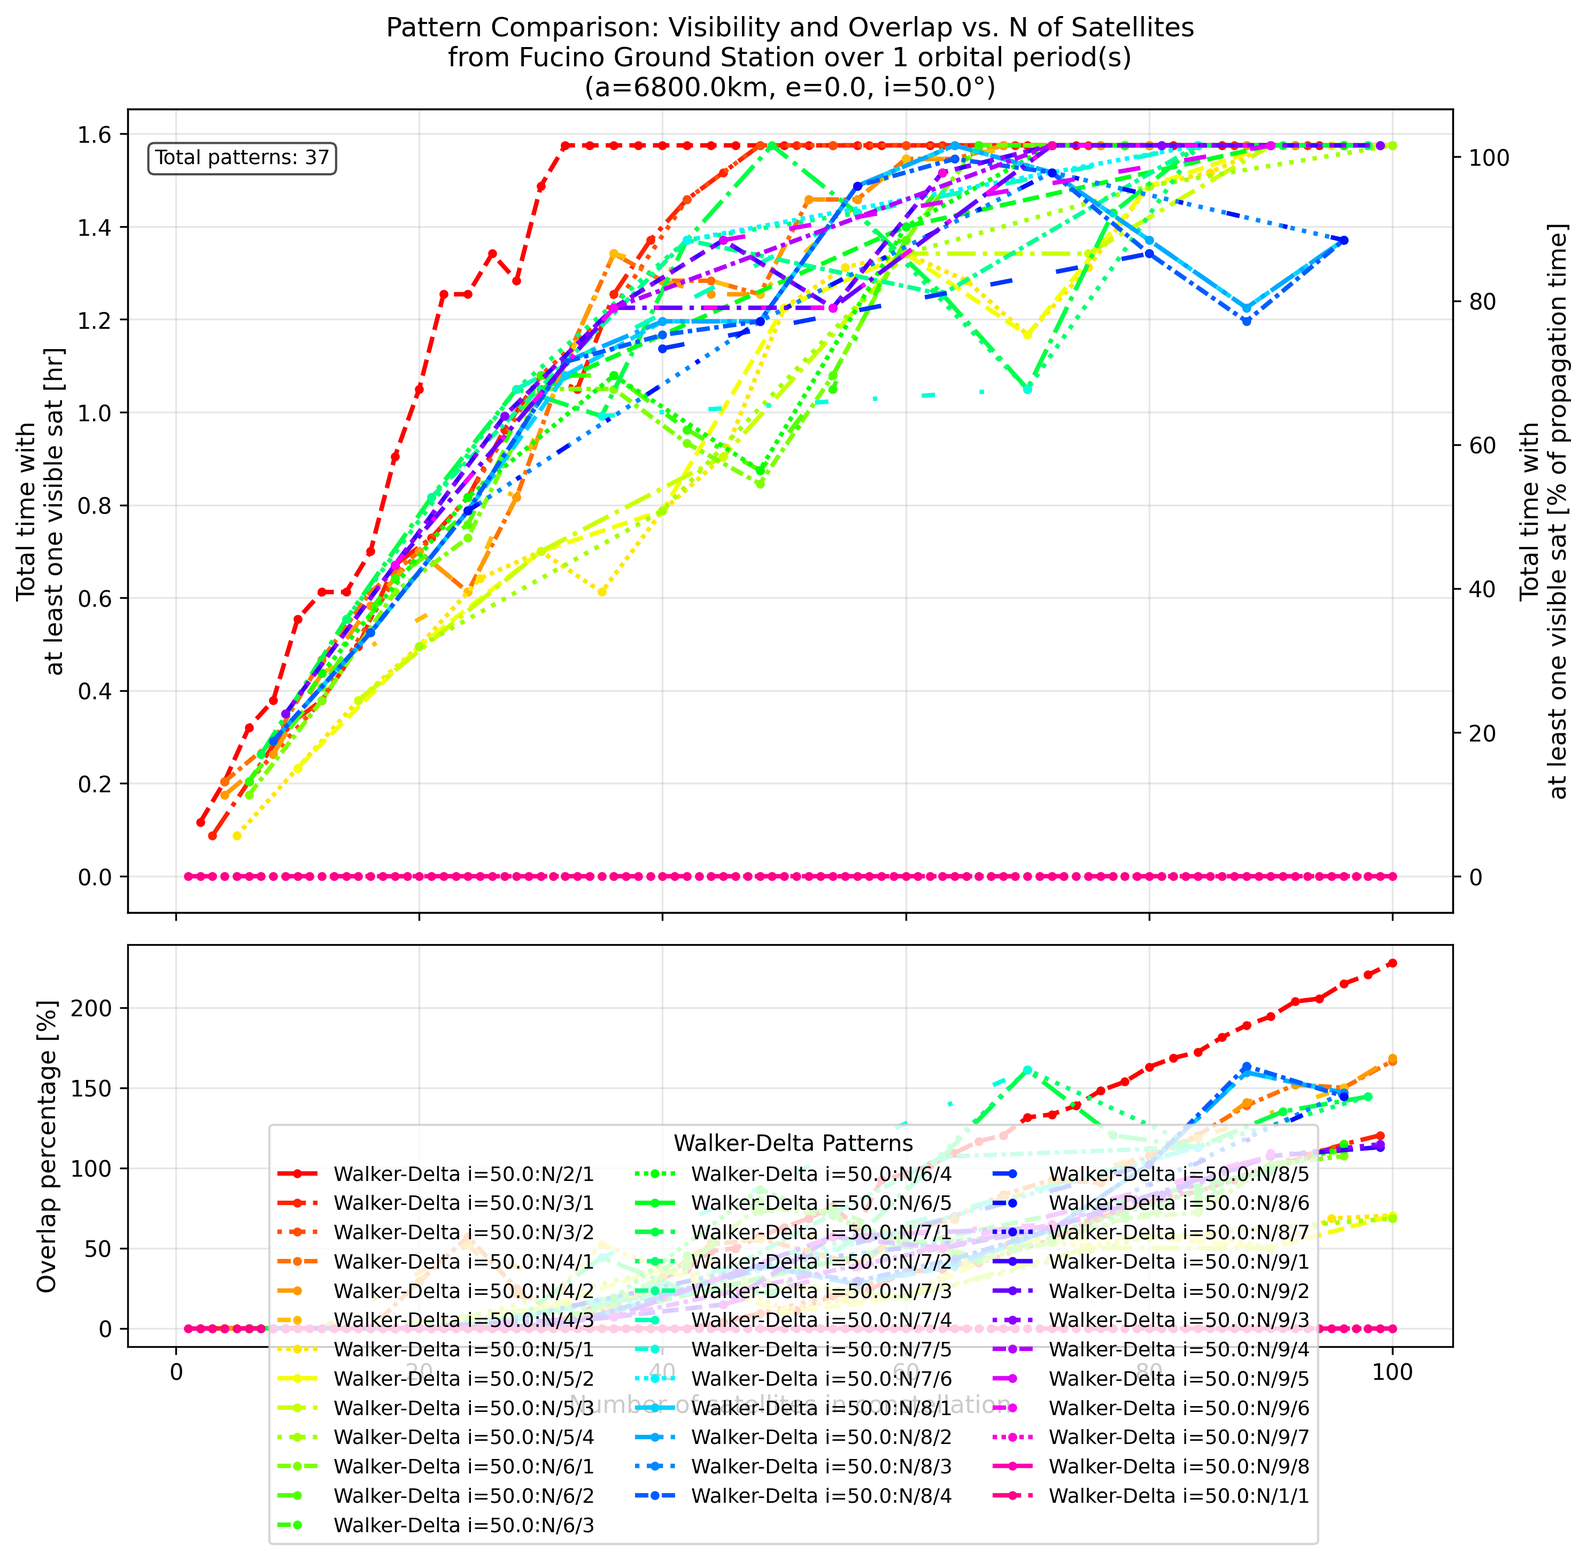
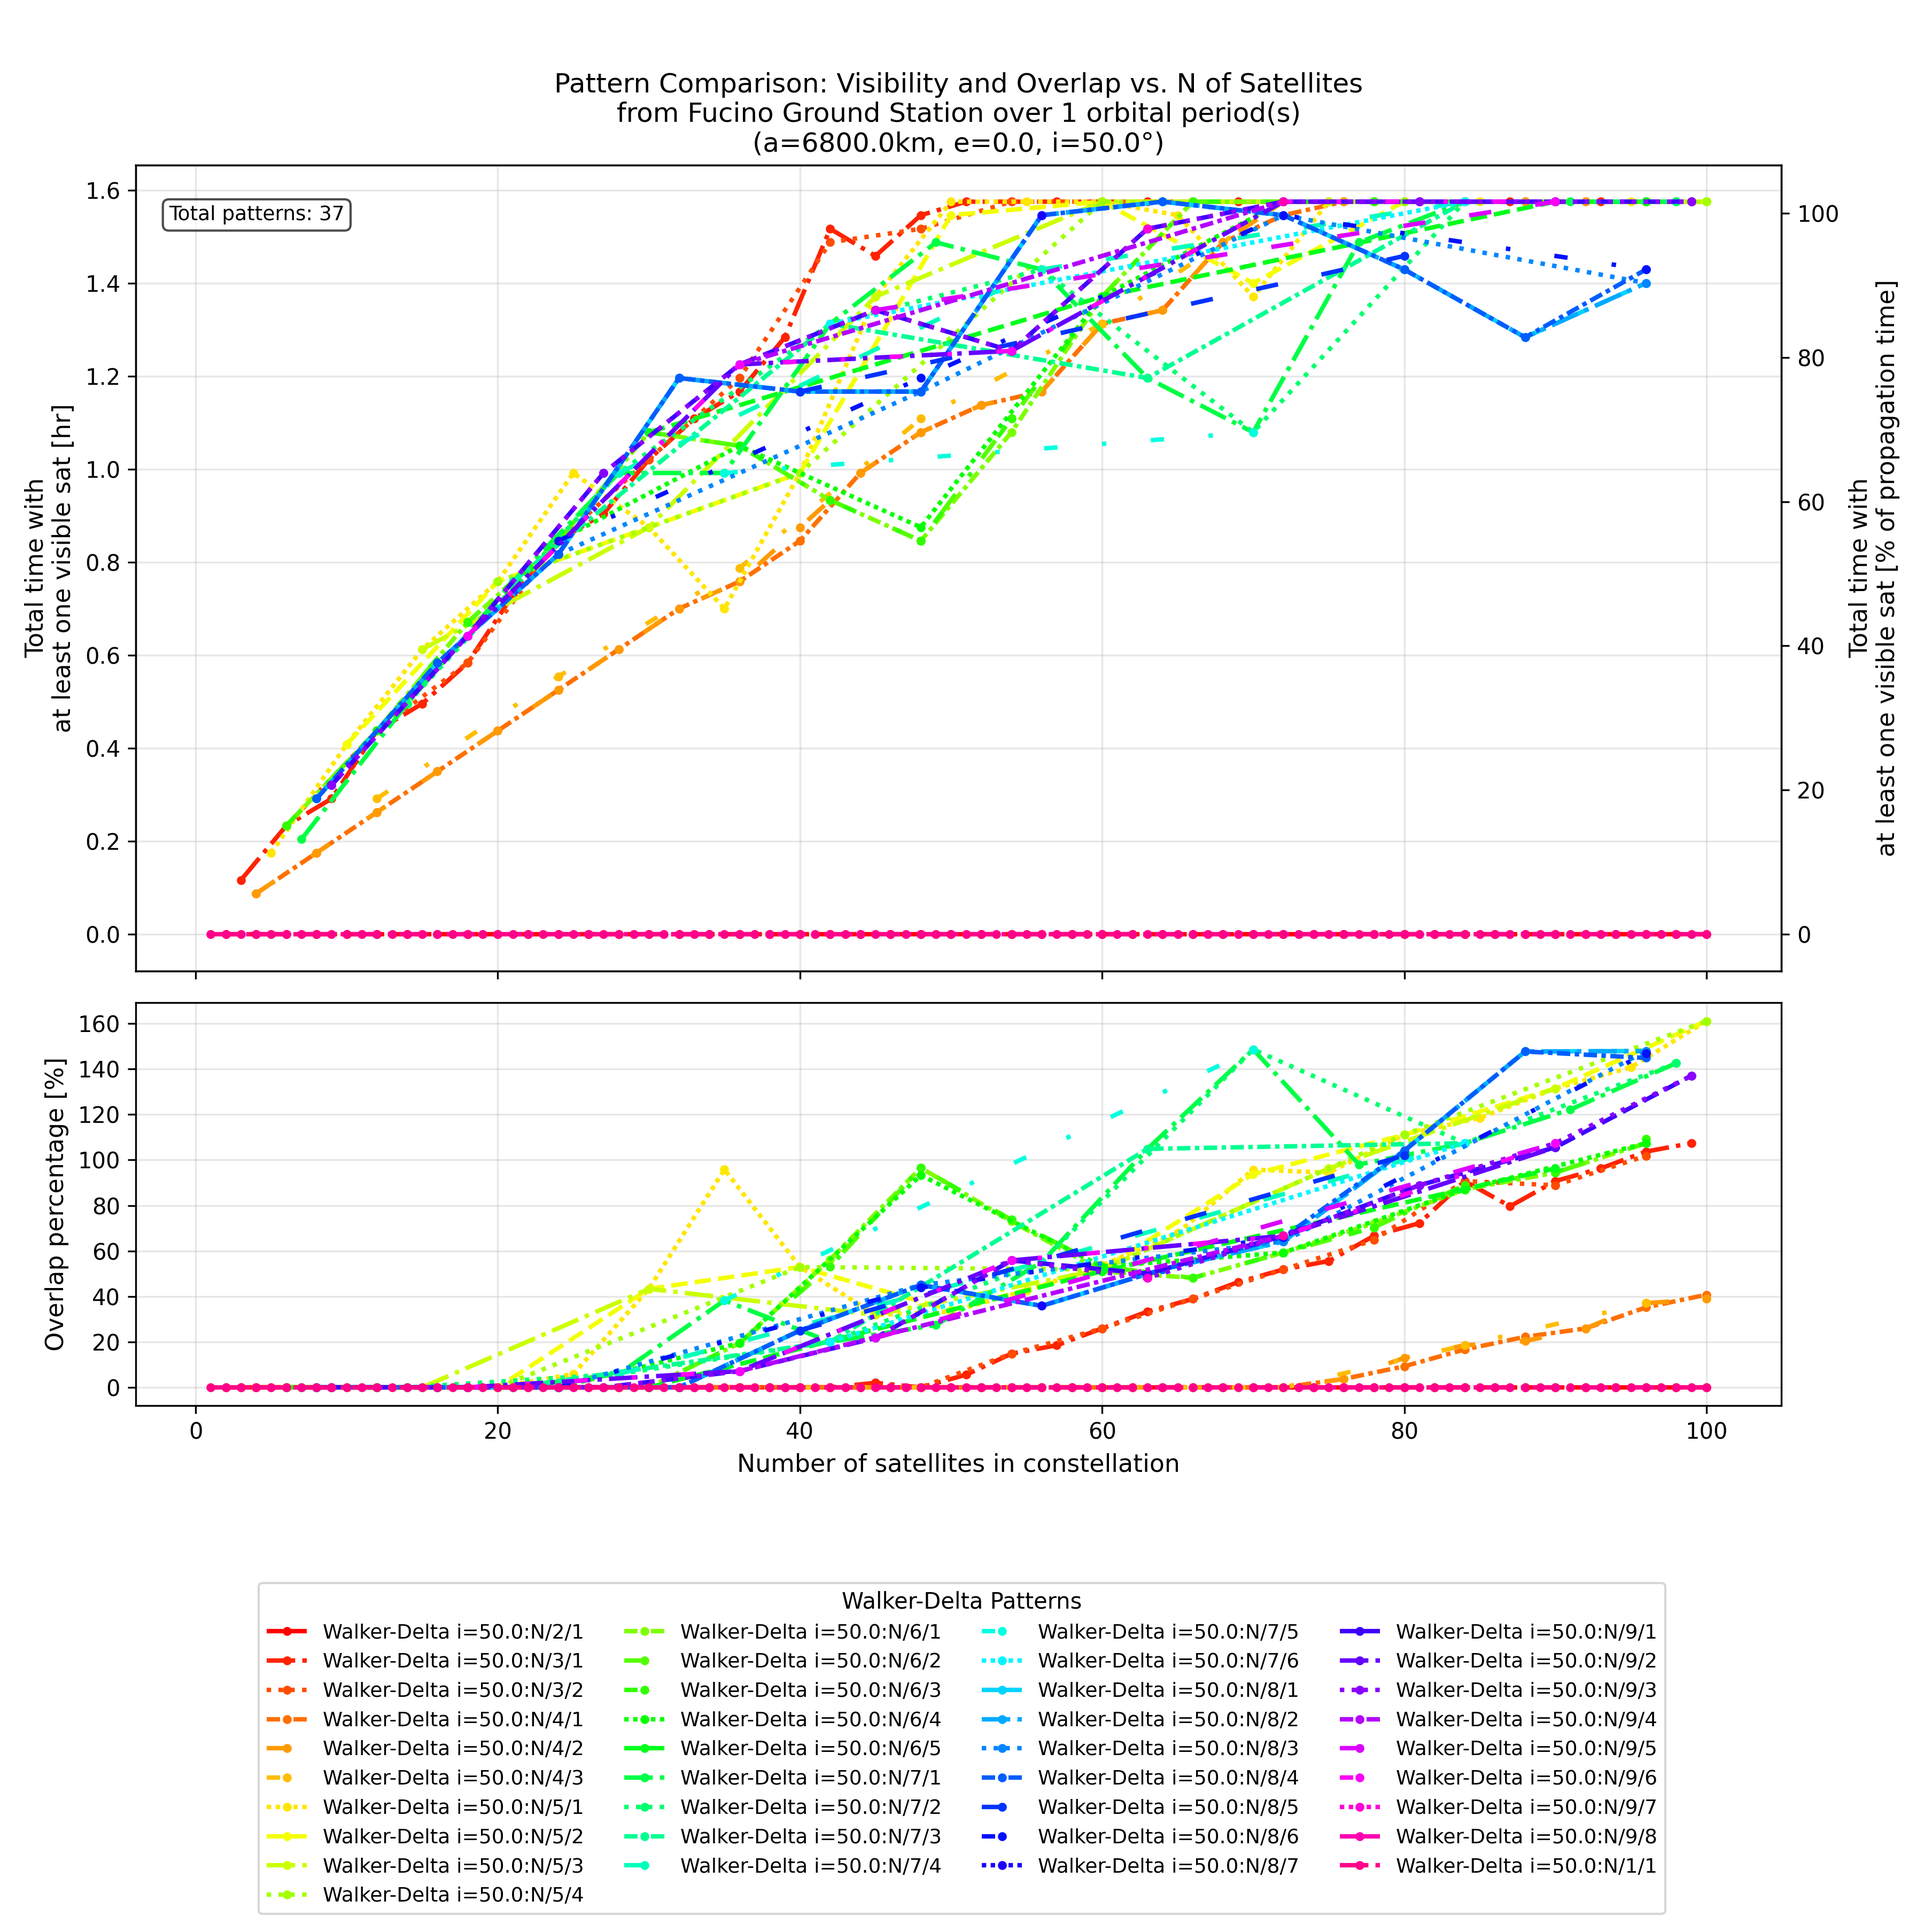
fix(walker comparison): fixing legend plot bottom space dynamically

diff --git a/main.py b/main.py
@@ -862,7 +862,20 @@ if __name__ == "__main__":
                 special_indices.append(i)
         
         # Plot the comparison using the pre-calculated data
-        fig, (ax1, ax2) = plt.subplots(2, 1, sharex=True, figsize=(10, 10), gridspec_kw={'height_ratios': [2, 1]})
+        # Adjust figure size based on pattern count
+        fig_height = 10
+        fig_width = 10
+        
+        if len(patterns_to_plot) > 50:
+            fig_height = 14
+            fig_width = 14
+        elif len(patterns_to_plot) > 35:
+            fig_height = 12
+            fig_width = 12
+        elif len(patterns_to_plot) > 25:
+            fig_width = 11
+        
+        fig, (ax1, ax2) = plt.subplots(2, 1, sharex=True, figsize=(fig_width, fig_height), gridspec_kw={'height_ratios': [2, 1]})
         
         # Define only dashed/dotted line styles (no solid lines)
         dashed_styles = ['--', '-.', ':', (0, (3, 1, 1, 1)), (0, (5, 10)), (0, (3, 10, 1, 10)), (0, (1, 1))]
@@ -962,29 +975,51 @@ if __name__ == "__main__":
                 special_labels.append(pattern_labels[i])
         
         # Create legends outside the plot at the bottom
+        # Calculate optimal column counts based on pattern counts - limited to max 4 cols for readability
+        walker_cols = min(4, max(2, len(walker_delta_lines) // 10 + 2))  # At least 2 columns, at most 4
+        special_cols = min(4, max(2, len(special_lines) // 5 + 1))  # At least 2 columns, at most 4
+        
         if walker_delta_lines:
             # Remove legend from inside the plot and place it at the bottom
             first_legend = fig.legend(
                 handles=walker_delta_lines,
                 labels=walker_delta_labels,
                 title="Walker-Delta Patterns",
-                fontsize=9,
+                fontsize=9,  # Slightly larger for better readability with fewer columns
                 loc='lower center',
                 bbox_to_anchor=(0.5, 0),
-                ncol=3
+                ncol=walker_cols
             )
         
         if special_lines:
-            # Position the special patterns legend below the Walker-Delta legend
-            legend_y_pos = -0.05 if not walker_delta_lines else -0.06
+            # Calculate appropriate vertical position for second legend
+            # The more rows in the first legend, the lower the second legend needs to be
+            walker_rows = (len(walker_delta_lines) + walker_cols - 1) // walker_cols if walker_delta_lines else 0
+            legend_y_pos = -0.05
+            
+            # Adjust position based on rows in first legend - more space needed with fewer columns
+            if walker_rows > 0:
+                if walker_rows <= 2:
+                    legend_y_pos = -0.08
+                elif walker_rows <= 4:
+                    legend_y_pos = -0.11
+                elif walker_rows <= 6:
+                    legend_y_pos = -0.14
+                elif walker_rows <= 8:
+                    legend_y_pos = -0.17
+                elif walker_rows <= 10:
+                    legend_y_pos = -0.20
+                else:
+                    legend_y_pos = -0.23
+                
             second_legend = fig.legend(
                 handles=special_lines,
                 labels=special_labels,
                 title="Special Patterns",
-                fontsize=9,
+                fontsize=9,  # Slightly larger for better readability with fewer columns
                 loc='lower center',
                 bbox_to_anchor=(0.5, legend_y_pos),
-                ncol=2
+                ncol=special_cols
             )
         
         # Add labels and styling for bottom plot (overlap percentage)
@@ -1016,10 +1051,47 @@ if __name__ == "__main__":
         for ax in [ax1, ax2, ax1b]:
             ax.tick_params(axis='both', which='major', labelsize=10)
         
-        # Calculate extra space needed for legends based on number of patterns
-        legend_space = 0.05 if len(patterns_to_plot) <= 5 else 0.07
+        # Calculate extra space needed for legends based on number of patterns and columns
+        legend_space = 0.05  # Default space for legends
+        
+        # Determine total number of legend rows needed (based on number of patterns and columns)
+        total_patterns = len(patterns_to_plot)
+        wd_patterns = len(walker_delta_lines)
+        special_patterns = len(special_lines)
+        
+        # Calculate number of columns that will be used - limited to max 4 cols for readability
+        walker_cols = min(4, max(2, wd_patterns // 10 + 2))  # At least 2 columns, at most 4
+        special_cols = min(4, max(2, special_patterns // 5 + 1))  # At least 2 columns, at most 4
+        
+        # Calculate rows needed (ceiling division)
+        walker_rows = (wd_patterns + walker_cols - 1) // walker_cols if wd_patterns > 0 else 0
+        special_rows = (special_patterns + special_cols - 1) // special_cols if special_patterns > 0 else 0
+        
+        # Adjust legend space based on number of rows
+        total_rows = walker_rows + special_rows
+        
+        if total_rows > 15:
+            legend_space = 0.30  # Increased for more rows due to fewer columns
+        elif total_rows > 12:
+            legend_space = 0.25
+        elif total_rows > 9:
+            legend_space = 0.20
+        elif total_rows > 6:
+            legend_space = 0.15
+        elif total_rows > 4:
+            legend_space = 0.11
+        elif total_rows > 2:
+            legend_space = 0.07
+        elif total_rows > 0:
+            legend_space = 0.05
+        
+        # Add extra space for titles and padding between legend groups
         if special_lines and walker_delta_lines:
-            legend_space += 0.01  # Add more space for two legend groups
+            legend_space += 0.05
+            
+        print(f"Debug: Number of patterns: {total_patterns} (WD: {wd_patterns}, Special: {special_patterns})")
+        print(f"Debug: Legend rows: {total_rows} (WD: {walker_rows} in {walker_cols} cols, Special: {special_rows} in {special_cols} cols)")
+        print(f"Debug: Legend space: {legend_space}")
             
         # Adjust spacing between subplots - leave space at bottom for legends
         plt.tight_layout(rect=[0, legend_space, 1, 0.98])
@@ -1027,4 +1099,12 @@ if __name__ == "__main__":
         # Save the comparison plot with secondary axis
         filename = f"plots/visibility/PatternComparison/{n_periods}T/PatternComparison_{gs}_step{step}_el{elevation_threshold}_a{orbital_parameters['semi_major_axis']}_e{orbital_parameters['eccentricity']}_i{orbital_parameters['inclination']}.png"
         os.makedirs(os.path.dirname(filename), exist_ok=True)
-        plt.savefig(filename, dpi=300, bbox_inches='tight')
+        
+        # For large numbers of patterns, don't use bbox_inches='tight' to avoid cropping legends
+        if len(patterns_to_plot) > 25:
+            # Increase figure size for better legend accommodation
+            fig.set_size_inches(12, 12)
+            # Save without tight bbox to ensure legends are included
+            plt.savefig(filename, dpi=300)
+        else:
+            plt.savefig(filename, dpi=300, bbox_inches='tight')
